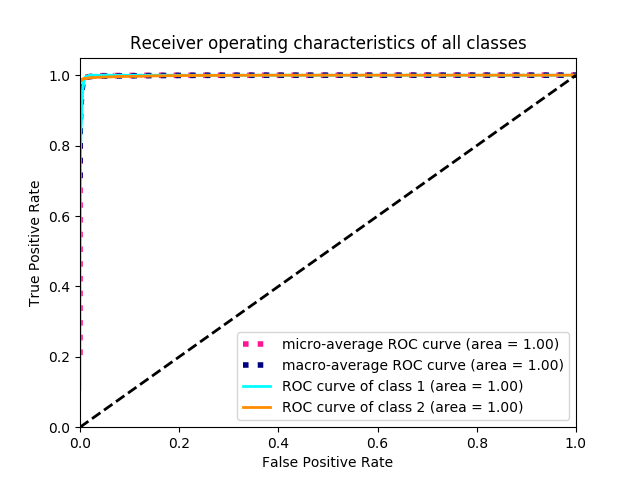
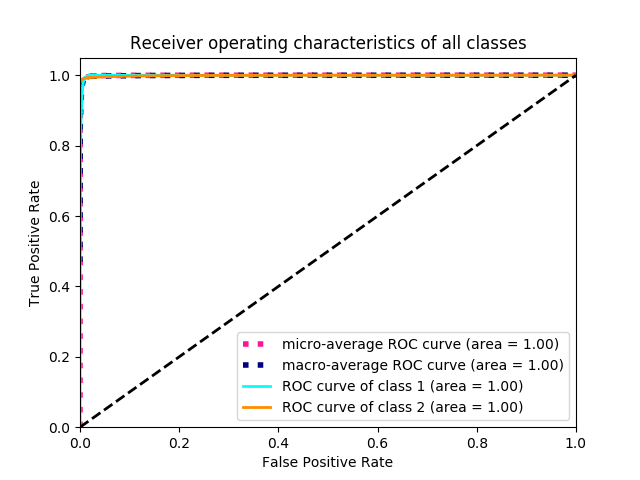
DEV: Added k-fold cross validation

diff --git a/model_ann.py b/model_ann.py
@@ -2,50 +2,70 @@ import numpy as np
 from keras.models import Sequential
 from keras.layers import Dense
 from keras.layers import Dropout
+from sklearn.model_selection import StratifiedKFold
 from keras import initializers
 from keras import optimizers
-from sklearn.model_selection import train_test_split
 from preprocess_training_set import preprocess
 from sklearn import metrics
 import time
 
 start = time.time()
-
-X, y = preprocess()
-
-# split into train&cv and test sets
-test_size = 0.3
-X_train_and_cv, X_test, y_train_and_cv, y_test = train_test_split(X, y, test_size=test_size)
-
-# split into train and cv sets
-cv_size = 0.2
-X_train, X_cv, y_train, y_cv = train_test_split(X_train_and_cv,
-                                                y_train_and_cv,
-                                                test_size=cv_size)
-
+X_train, X_cv, _, y_train, y_cv, _ = preprocess()
 np.random.seed(7)
 
+# ----------------------------------use manuel validation dataset----------------------------------
+# create model
 model = Sequential()
+# first hidden layer, 512 neurons
 model.add(Dense(512,
                 input_dim=33,
                 kernel_initializer=initializers.random_normal(mean=0.0, stddev=0.05, seed=123),
                 activation='relu'))
+# 20% dropout layer
 model.add(Dropout(0.2))
+# second hidden layer, 256 neurons
 model.add(Dense(256,
                 kernel_initializer=initializers.random_normal(mean=0.0, stddev=0.05, seed=123),
                 activation='relu'))
+# 20% dropout layer
 model.add(Dropout(0.2))
+# output layer
 model.add(Dense(1, kernel_initializer='normal', activation='sigmoid'))
-
 model.compile(loss='binary_crossentropy', optimizer=optimizers.adam(lr=0.0001), metrics=['accuracy'])
+# train compiled model
 model.fit(X_train, y_train, epochs=100, batch_size=100)
-
+# save trained model
 model.save('model_ann.h5')
-
+# evaluate model with validation set
 predictions = model.predict(X_cv)
 rounded = [round(x[0]) for x in predictions]
-
 print("\nTRAINING COMPLETE\nAccuracy (validation) : %.4g" % metrics.accuracy_score(y_cv, rounded))
+# ----------------------------------manuel validation end----------------------------------
+
+# ----------------------------------k-fold cross validation----------------------------------
+# X = np.concatenate((X_train, X_cv), axis=0)
+# y = np.concatenate((y_train, y_cv), axis=0)
+# kfold = StratifiedKFold(n_splits=5, shuffle=True, random_state=7)
+# cvscores = []
+# for train, cv in kfold.split(X, y):
+#     model = Sequential()
+#     model.add(Dense(512,
+#                     input_dim=33,
+#                     kernel_initializer=initializers.random_normal(mean=0.0, stddev=0.05, seed=123),
+#                     activation='relu'))
+#     model.add(Dropout(0.2))
+#     model.add(Dense(256,
+#                     kernel_initializer=initializers.random_normal(mean=0.0, stddev=0.05, seed=123),
+#                     activation='relu'))
+#     model.add(Dropout(0.2))
+#     model.add(Dense(1, kernel_initializer='normal', activation='sigmoid'))
+#     model.compile(loss='binary_crossentropy', optimizer=optimizers.adam(lr=0.0001), metrics=['accuracy'])
+#     model.fit(X[train], y[train], epochs=100, batch_size=100, verbose=0)
+#     scores = model.evaluate(X[cv], y[cv], verbose=0)
+#     print("%s: %.2f%%" % (model.metrics_names[1], scores[1]*100))
+#     cvscores.append(scores[1] * 100)
+# print("%.2f%% (+/- %.2f%%)" % (np.mean(cvscores), np.std(cvscores)))
+# ----------------------------------k-fold cv end----------------------------------
 
 end = time.time()
 print('\nTotal time : {:.2f} {}'.format((end - start) / 60, 'minutes'))

diff --git a/roc_ann.py b/roc_ann.py
@@ -3,55 +3,56 @@ import matplotlib.pyplot as plt
 from itertools import cycle
 
 from keras.models import load_model
-from sklearn.model_selection import train_test_split
 from sklearn import metrics
 from preprocess_training_set import preprocess
 from sklearn.preprocessing import label_binarize
 from scipy import interp
 
 
-X, y = preprocess()
-
-# split into train&cv and test sets
-test_size = 0.3
-X_train_and_cv, X_test, y_train_and_cv, y_test = train_test_split(X, y, test_size=test_size)
-
-# split into train and cv sets
-cv_size = 0.2
-X_train, X_cv, y_train, y_cv = train_test_split(X_train_and_cv,
-                                                y_train_and_cv,
-                                                test_size=cv_size)
+_, X_cv, X_test, _, y_cv, y_test = preprocess()
 
 n_classes = 2
 y_b = label_binarize(y_cv, range(n_classes+1))[:, :-1]
 
 model = load_model('model_ann.h5')
 
-y_pred = model.predict(X_cv)
-y_pred_prob = np.zeros((len(y_pred), 2))
+# results for validation sets
+y_pred_cv = model.predict(X_cv)
+y_pred_prob_cv = np.zeros((len(y_pred_cv), 2))
 
 # construct probability matrix
-for i in range(0, len(y_pred)):
-    y_pred_prob[i][0] = 1 - y_pred[i]
-    y_pred_prob[i][1] = y_pred[i]
+for i in range(0, len(y_pred_cv)):
+    y_pred_prob_cv[i][0] = 1 - y_pred_cv[i]
+    y_pred_prob_cv[i][1] = y_pred_cv[i]
 
-print('\nProbability matrix: ')
-print(y_pred_prob)
+rounded_cv = [round(x[0]) for x in y_pred_cv]
+print("\nModel Report: ")
+print("\nAccuracy (validation) : %.4g" % metrics.accuracy_score(y_cv, rounded_cv))
+print("Log Loss (validation): %f" % metrics.log_loss(y_cv, y_pred_prob_cv))
 
-rounded = [round(x[0]) for x in y_pred]
-print("\nAccuracy (validation) : %.4g" % metrics.accuracy_score(y_cv, rounded))
+# results for test sets
+y_pred_test = model.predict(X_test)
+y_pred_prob_test = np.zeros((len(y_pred_test), 2))
 
+# construct probability matrix
+for i in range(0, len(y_pred_test)):
+    y_pred_prob_test[i][0] = 1 - y_pred_test[i]
+    y_pred_prob_test[i][1] = y_pred_test[i]
+
+rounded_test = [round(x[0]) for x in y_pred_test]
+print("\nAccuracy (test) : %.4g" % metrics.accuracy_score(y_test, rounded_test))
+print("Log Loss (test): %f" % metrics.log_loss(y_test, y_pred_prob_test))
 
 # Compute ROC curve and ROC area for each class
 fpr = dict()
 tpr = dict()
 roc_auc = dict()
 for i in range(n_classes):
-    fpr[i], tpr[i], _ = metrics.roc_curve(y_b[:, i], y_pred_prob[:, i])
+    fpr[i], tpr[i], _ = metrics.roc_curve(y_b[:, i], y_pred_prob_cv[:, i])
     roc_auc[i] = metrics.auc(fpr[i], tpr[i])
 
 # Compute micro-average ROC curve and ROC area
-fpr["micro"], tpr["micro"], _ = metrics.roc_curve(y_b.ravel(), y_pred_prob.ravel())
+fpr["micro"], tpr["micro"], _ = metrics.roc_curve(y_b.ravel(), y_pred_prob_cv.ravel())
 roc_auc["micro"] = metrics.auc(fpr["micro"], tpr["micro"])
 
 # First aggregate all false positive rates

diff --git a/preprocess_training_set.py b/preprocess_training_set.py
@@ -2,6 +2,7 @@ import numpy as np
 import pandas as pd
 from sklearn.preprocessing import LabelEncoder
 from sklearn.preprocessing import MinMaxScaler
+from sklearn.model_selection import train_test_split
 import collections
 import time
 
@@ -156,6 +157,7 @@ def preprocess():
     list_price_x_rfq_qty_n = list_price_x_rfq_qty_n
     rfq_price_x_order_qty_n = rfq_price_x_order_qty_n
 
+    # concatenate all encoded and normalized arrays
     X = np.concatenate((country_b, coverage_b), axis=1)
     X = np.concatenate((X, sku_b), axis=1)
     X = np.concatenate((X, sku_category_b), axis=1)
@@ -165,6 +167,16 @@ def preprocess():
     X = np.concatenate((X, rfq_price_n), axis=1)
     X = np.concatenate((X, list_price_x_rfq_qty_n), axis=1)
     X = np.concatenate((X, rfq_price_x_order_qty_n), axis=1)
+
+    # split into train&cv and test sets
+    test_size = 0.3
+    X_train_and_cv, X_test, y_train_and_cv, y_test = train_test_split(X, y, test_size=test_size)
+
+    # split into train and cv sets
+    cv_size = 0.2
+    X_train, X_cv, y_train, y_cv = train_test_split(X_train_and_cv,
+                                                    y_train_and_cv,
+                                                    test_size=cv_size)
 
     # # compute percentage of each key
     # for i in range(0, len(keys_order_qty)):
@@ -223,6 +235,4 @@ def preprocess():
 
     print('\nPREPROCESSING COMPLETE\nTime elapsed: {:.2f} {}'.format((end - start), 'seconds'))
 
-    return X, y
-
-# preprocess()
+    return X_train, X_cv, X_test, y_train, y_cv, y_test
